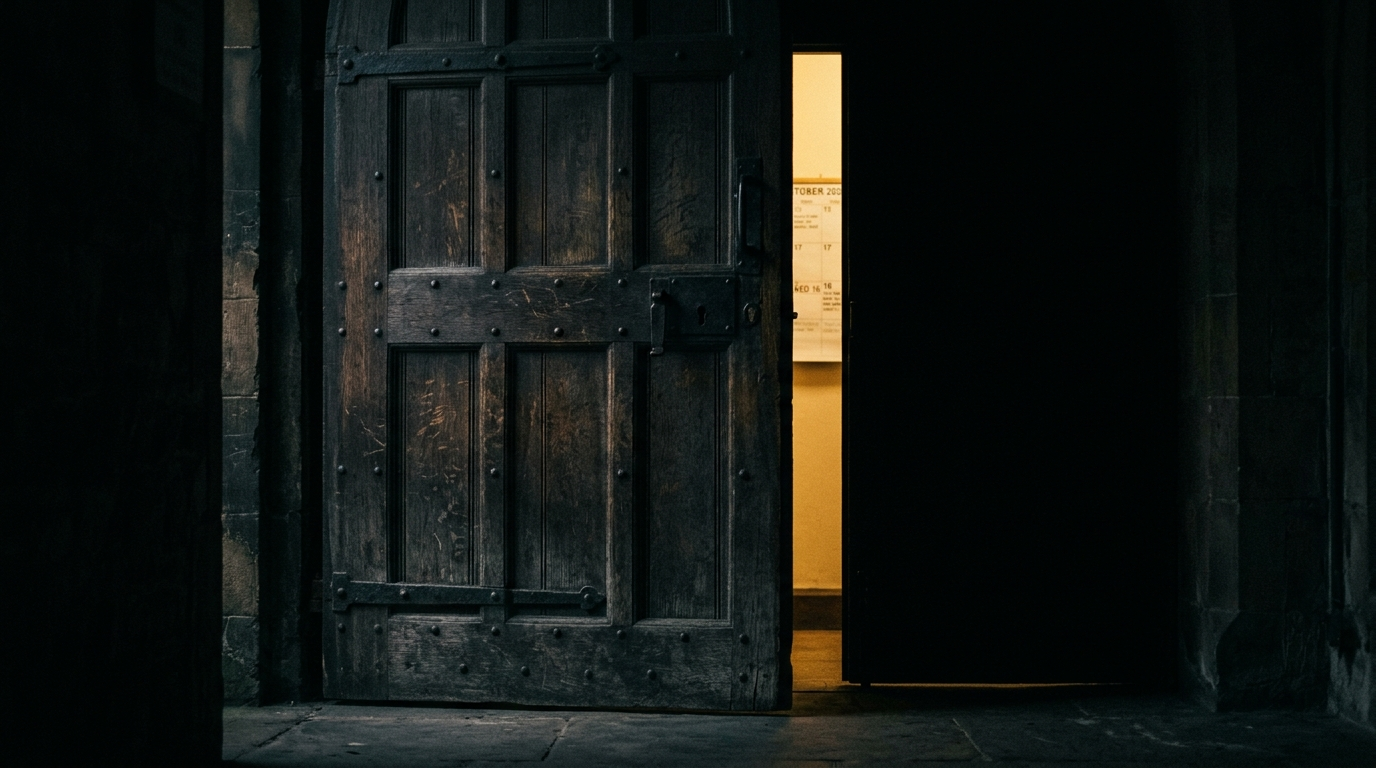
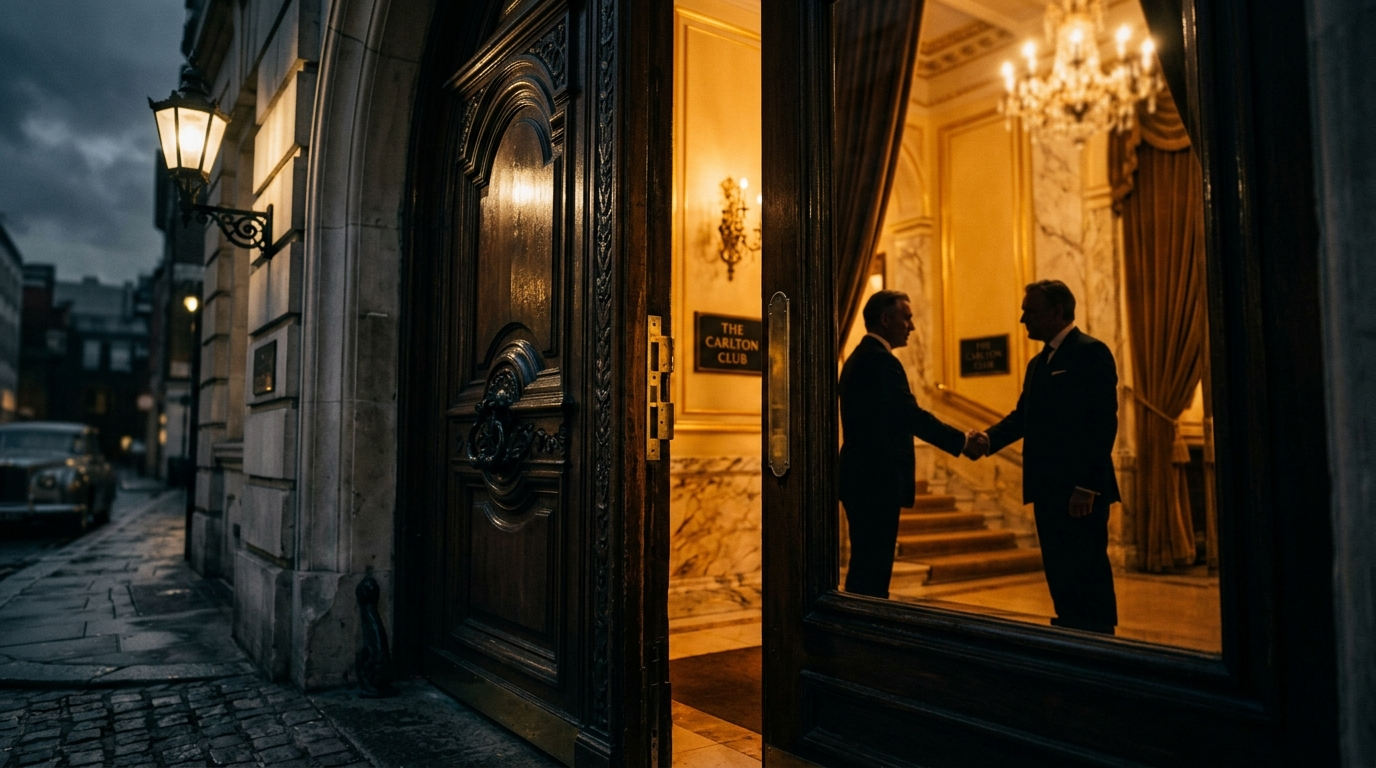
Remove video from THE FILM; update WHO OWNS IT to Selig/CFTC; new door+handshake WHY NOW; new DARPA image

diff --git a/betting-on-america/index.html b/betting-on-america/index.html
@@ -1264,12 +1264,6 @@ body {
   </div>
 
   <div class="section">
-    <div class="video-wrap">
-      <video controls poster="../assets/img/hero-eyes.jpeg">
-        <source src="../assets/video/AllInPitch_web.mp4" type="video/mp4">
-        <source src="../Final Pitch Video/AllInPitchweb.mp4" type="video/mp4">
-      </video>
-    </div>
 
     <div class="pull-quote reveal">
       <p>"The same American addiction — just not the one you thought."</p>
@@ -1949,11 +1943,11 @@ body {
 
   <!-- ═══ SECTION CINEMA ═══════════════════════════════════════════════ -->
   <div style="position:relative;height:48vh;min-height:320px;overflow:hidden;">
-    <div style="position:absolute;inset:0;background:url('./04_empty_commission.jpg') center/cover no-repeat;filter:brightness(0.45) saturate(0.8);"></div>
+    <div style="position:absolute;inset:0;background:url('./05_selig_cftc.jpg') center/cover no-repeat;filter:brightness(0.45) saturate(0.8);"></div>
     <div style="position:absolute;inset:0;background:linear-gradient(to bottom,transparent 30%,#08080e 100%);"></div>
     <div style="position:absolute;bottom:2rem;left:2.5rem;z-index:2;">
       <div style="font-size:0.55rem;letter-spacing:0.28em;text-transform:uppercase;color:var(--amber);margin-bottom:0.35rem;">05 — Who Owns It</div>
-      <div style="font-size:0.9rem;color:rgba(255,255,255,0.5);font-style:italic;">"Four empty seats. One man setting the rules."</div>
+      <div style="font-size:0.9rem;color:rgba(255,255,255,0.5);font-style:italic;">"One commissioner. Five seats. The vote that cleared the platform."</div>
     </div>
   </div>
 